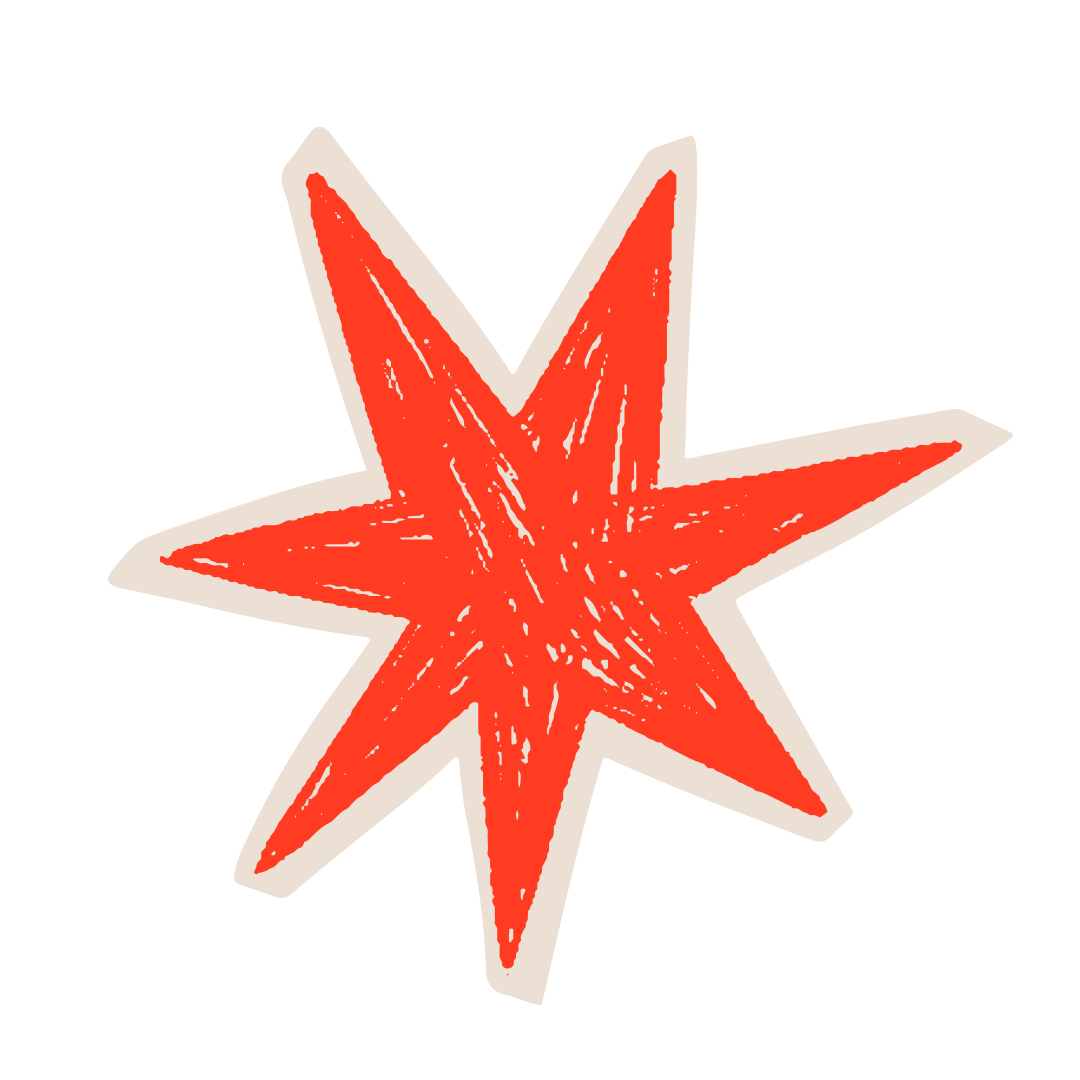
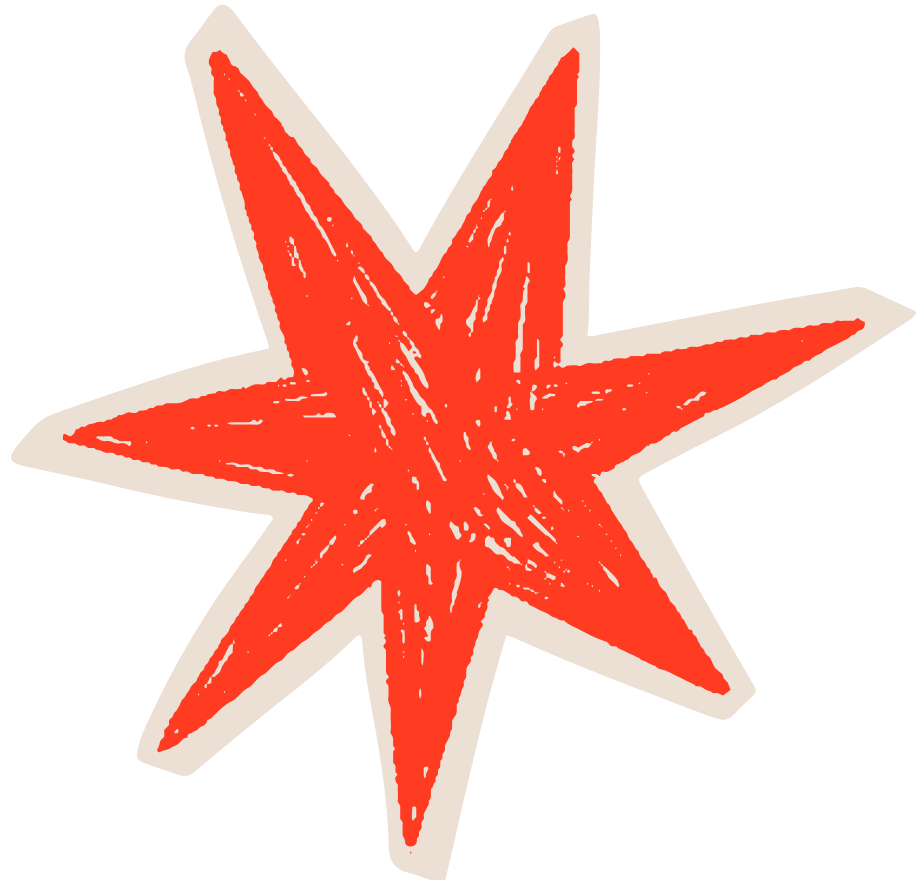
fixed home photos formatting so text could show + added chew out link

Changed region(s): [[0.0, 0.0, 1.0, 1.0], [0.4885, 0.7364, 0.5191, 0.8284], [0.6412, 0.6443, 0.6718, 0.675]]

diff --git a/app/globals.css b/app/globals.css
@@ -26,18 +26,46 @@ html {
 
 body {
   background-color: var(--background);
-  background-image: url("/buboylogo.png"), url("/star.png"), url("/star.png"), url("/star.png");
+  background-image: url("/buboylogo.png");
   background-repeat: no-repeat;
-  background-position: 50% 0px, 5% 25%, 50% 25%, 95% 25%;
-  background-size:
-    clamp(180px, 22vw, 320px) auto,
-    clamp(180px, 28vw, 420px) auto,
-    clamp(180px, 28vw, 420px) auto,
-    clamp(180px, 28vw, 420px) auto;
+  background-position: 50% 25px;
+  background-size: clamp(200px, 16vw, 380px) auto;
   color: var(--foreground);
   font-family: Arial, Helvetica, sans-serif;
   min-height: 100vh;
   overflow-x: hidden;
+}
+
+.page-shell {
+  position: relative;
+  min-height: 100vh;
+  z-index: 1;
+  isolation: isolate;
+}
+
+.star-image {
+  position: fixed;
+  top: 25%;
+  width: clamp(220px, 30%, 537.58px);
+  height: auto;
+  pointer-events: none;
+  z-index: -1;
+  transform-origin: center;
+}
+
+.star-image-left {
+  left: 8%;
+  transform: rotate(66.978deg);
+}
+
+.star-image-center {
+  left: 50%;
+  transform: translateX(-50%) rotate(66.978deg);
+}
+
+.star-image-right {
+  left: 92%;
+  transform: translateX(-100%) rotate(66.978deg);
 }
 
 /* Copyright footer — fixed to viewport bottom center */
@@ -55,18 +83,17 @@ body::before {
   white-space: nowrap;
 }
 
-/* Bio blurb — fixed to bottom-right area */
-body::after {
-  content: "Buboy is a Filipino-American indie rock artist who drinks a lot of milk and goes to the movie theater alone (separate activities, rarely together).";
-  position: fixed;
-  right: clamp(16px, 4vw, 48px);
+/* Bio blurb — anchored to bottom-right area */
+.bio-blurb {
+  position: absolute;
+  right: clamp(100px, 12vw, 200px);
   bottom: clamp(48px, 8vh, 96px);
-  max-width: clamp(180px, 22vw, 300px);
+  max-width: clamp(180px, 25vw, 400px);
+  margin: 0;
   font-size: clamp(12px, 1.3vw, 16px);
   line-height: 1.4;
   color: #111111;
   z-index: 1;
-  pointer-events: none;
 }
 
 body > * {
@@ -74,28 +101,54 @@ body > * {
   z-index: 1;
 }
 
+/* ── Chew out link ───────────────────────────────────────── */
+.chew-out-link {
+  position: absolute;
+  top: 21%;
+  left: 50%;
+  transform: translateX(-50%);
+  font-size: clamp(12px, 1.5vw, 14px);
+  color: #001aff;
+  text-decoration: underline;
+  z-index: 2;
+}
+
+.chew-out-link:hover {
+  opacity: 0.7;
+}
+
 /* ── Home photos ─────────────────────────────────────────── */
 
 .home-photos {
+  position: relative;
   min-height: 100vh;
   display: flex;
   align-items: center;
   justify-content: center;
+  box-sizing: border-box;
+  padding-top: 50px;
 }
 
 .home-photos-row {
   display: flex;
+  flex-direction: row;
+  flex-wrap: nowrap;
   align-items: center;
   justify-content: center;
-  gap: clamp(24px, 6vw, 120px);
-  width: min(90vw, 1400px);
+  gap: clamp(0px, 100%, 45px);
+  width: 100%;
   margin: 0 auto;
 }
 
 .home-photo {
-  width: clamp(160px, 22vw, 340px);
+  display: block;
+  width: 100%;
+  max-width: 257px;
+  aspect-ratio: 237 / 320;
   height: auto;
-  object-fit: contain;
+  object-fit: cover;
+  flex: 1 1 0;
+  min-width: 0;
 }
 
 /* ── Desktop dock & windows ──────────────────────────────── */
@@ -105,7 +158,7 @@ body > * {
   display: flex;
   align-items: flex-end;
   gap: 24px;
-  z-index: 2;
+  z-index: 3;
   user-select: none;
 }
 
@@ -136,7 +189,7 @@ body > * {
 
 .app-window {
   position: fixed;
-  z-index: 3;
+  z-index: 4;
   width: min(1200px, 90vw);
   height: min(800px, 88vh);
 }
@@ -242,7 +295,6 @@ body > * {
 .window-title-row {
   padding: clamp(8px, 1.3vw, 10px) clamp(12px, 1.8vw, 16px) 0;
   font-size: clamp(16px, 2.1vw, 22px);
-  text-align: center;
   color: #000000;
   text-transform: lowercase;
   letter-spacing: 0.08em;
@@ -482,7 +534,7 @@ body > * {
 
 /* ── Responsive breakpoints ──────────────────────────────── */
 
-@media (max-width: 900px) {
+@media (max-width: 640px) {
   .press-kit-grid {
     grid-template-columns: 1fr;
   }
@@ -503,11 +555,12 @@ body > * {
     grid-template-columns: repeat(2, minmax(0, 1fr));
   }
 
-  body::after {
-    display: none;
+  .home-photo {
+    width: min(257px, 28vw);
   }
 }
 
+/* Mobile */
 @media (max-width: 640px) {
   .desktop-window {
     width: min(520px, 92vw);
@@ -533,5 +586,39 @@ body > * {
   .app-window {
     width: 96vw;
     height: 90vh;
+  }
+
+  .home-photos {
+    padding: 30px 15px;
+  }
+
+  .home-photos-row {
+    flex-direction: column;
+    flex-wrap: nowrap;
+    gap: 14px;
+  }
+
+  .home-photo {
+    width: min(80vw, 257px);
+    flex: 0 0 auto;
+  }
+
+  .star-image {
+    position: absolute;
+    left: 50%;
+    width: 145px;
+  }
+
+  .star-image-left {
+    top: 120px;
+    transform: translateX(-50%) rotate(66.978deg);
+  }
+
+  .star-image-center {
+    top: 490px;
+  }
+
+  .star-image-right {
+    top: 860px;
   }
 }

diff --git a/app/layout.tsx b/app/layout.tsx
@@ -28,8 +28,28 @@ export default function RootLayout({
       <body
         className={`${geistSans.variable} ${geistMono.variable} antialiased`}
       >
-        <DraggableWindowNav />
-        {children}
+        <div className="page-shell">
+          <img
+            src="/star.png"
+            alt=""
+            aria-hidden="true"
+            className="star-image star-image-left"
+          />
+          <img
+            src="/star.png"
+            alt=""
+            aria-hidden="true"
+            className="star-image star-image-center"
+          />
+          <img
+            src="/star.png"
+            alt=""
+            aria-hidden="true"
+            className="star-image star-image-right"
+          />
+          <DraggableWindowNav />
+          {children}
+        </div>
       </body>
     </html>
   );

diff --git a/app/page.tsx b/app/page.tsx
@@ -1,6 +1,16 @@
+
 export default function Home() {
   return (
     <div className="home-photos font-sans">
+      <a
+        href="YOUR-LINK-HERE"
+        className="chew-out-link"
+        target="_blank"
+        rel="noopener noreferrer"
+      >
+        chew out now!
+      </a>
+
       <div className="home-photos-row">
         <img
           src="/buboy1.jpg"
@@ -18,6 +28,12 @@ export default function Home() {
           className="home-photo"
         />
       </div>
+
+      <p className="bio-blurb">
+        Buboy is a Filipino-American indie rock artist who drinks a lot of milk
+        and goes to the movie theater alone (separate activities, rarely
+        together).
+      </p>
     </div>
   );
 }
